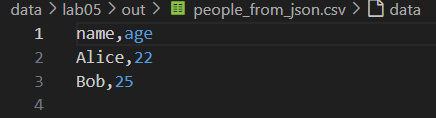
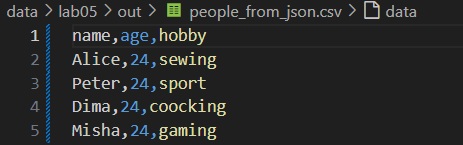
.

diff --git a/src/lab05/json_csv.py b/src/lab05/json_csv.py
@@ -3,38 +3,38 @@ import csv
 from pathlib import Path
 
 
-# def json_to_csv(json_path: str, csv_path: str) -> None:
-#     json_path = Path(json_path)
-#     csv_path = Path(csv_path)
+def json_to_csv(json_path: str, csv_path: str) -> None:
+    json_path = Path(json_path)
+    csv_path = Path(csv_path)
 
-#     if not json_path.is_file():
-#         raise FileNotFoundError('файл не найден')
+    if not json_path.is_file():
+        raise FileNotFoundError('файл не найден')
 
-#     with json_path.open(encoding='utf-8') as f:
-#         data = json.load(f)
+    with json_path.open(encoding='utf-8') as f:
+        data = json.load(f)
 
-#     if len(data) == 0:
-#         raise ValueError('файл пустой')
+    if len(data) == 0:
+        raise ValueError('файл пустой')
     
-#     if not isinstance(data, list):
-#         raise ValueError('неверный тип файла')
+    if not isinstance(data, list):
+        raise ValueError('неверный тип файла')
     
-#     for element in data:
-#         if not isinstance(element, dict):
-#             raise ValueError('неверный тип файла')
+    for element in data:
+        if not isinstance(element, dict):
+            raise ValueError('неверный тип файла')
         
-#     headers = list(data[0].keys())
-#     '''
-#     Порядок колонок как в 1 объекте 
-#     '''
-#     with csv_path.open('w', encoding='utf-8', newline='') as f:
-#         writer = csv.DictWriter(f, fieldnames=headers)
-#         writer.writeheader()  
-#         for row in data:
-#             row_data = {key: row.get(key, '') for key in headers}
-#             writer.writerow(row_data)
+    headers = list(data[0].keys())
+    '''
+    Порядок колонок как в 1 объекте 
+    '''
+    with csv_path.open('w', encoding='utf-8', newline='') as f:
+        writer = csv.DictWriter(f, fieldnames=headers)
+        writer.writeheader()  
+        for row in data:
+            row_data = {key: row.get(key, '') for key in headers}
+            writer.writerow(row_data)
 
-# json_to_csv('data/lab05/samples/people.json', 'data/lab05/out/people_from_json.csv')
+json_to_csv('data/lab05/samples/people.json', 'data/lab05/out/people_from_json.csv')
 
 
 def csv_to_json(csv_path: str, json_path: str) -> None:

diff --git a/README.md b/README.md
@@ -491,19 +491,18 @@ def csv_to_xlsx(csv_path: str, xlsx_path: str) -> None:
         for col_index, value in enumerate(row, start=1):
             sheet.cell(row=row_index, column=col_index, value=value)
 
-    for col_index in range(1, len(rows[0]) + 1):
-        col_letter = get_column_letter(col_index)
+    for column_index in range(1, len(rows[0]) + 1):
+        column_letter = get_column_letter(column_index)
         max_length = max(
             (len(str(sheet.cell(row=row, column=col_index).value or "")) for row in range(1, len(rows) + 1)),
             default=8
         )
-        sheet.column_dimensions[col_letter].width = max(max_length, 8)
+        sheet.column_size[col_letter].width = max(max_length, 8)
 
     book.save(xlsx_path)
 
 csv_to_xlsx('data/lab05/samples/people.csv', 'data/lab05/out/people.xlsx')  
 ```
-### CSV
-![05](/images/lab04/05.png)
+
 ### Результат
-![06](/images/lab04/06.png)
+![05](/images/lab04/05.png)
